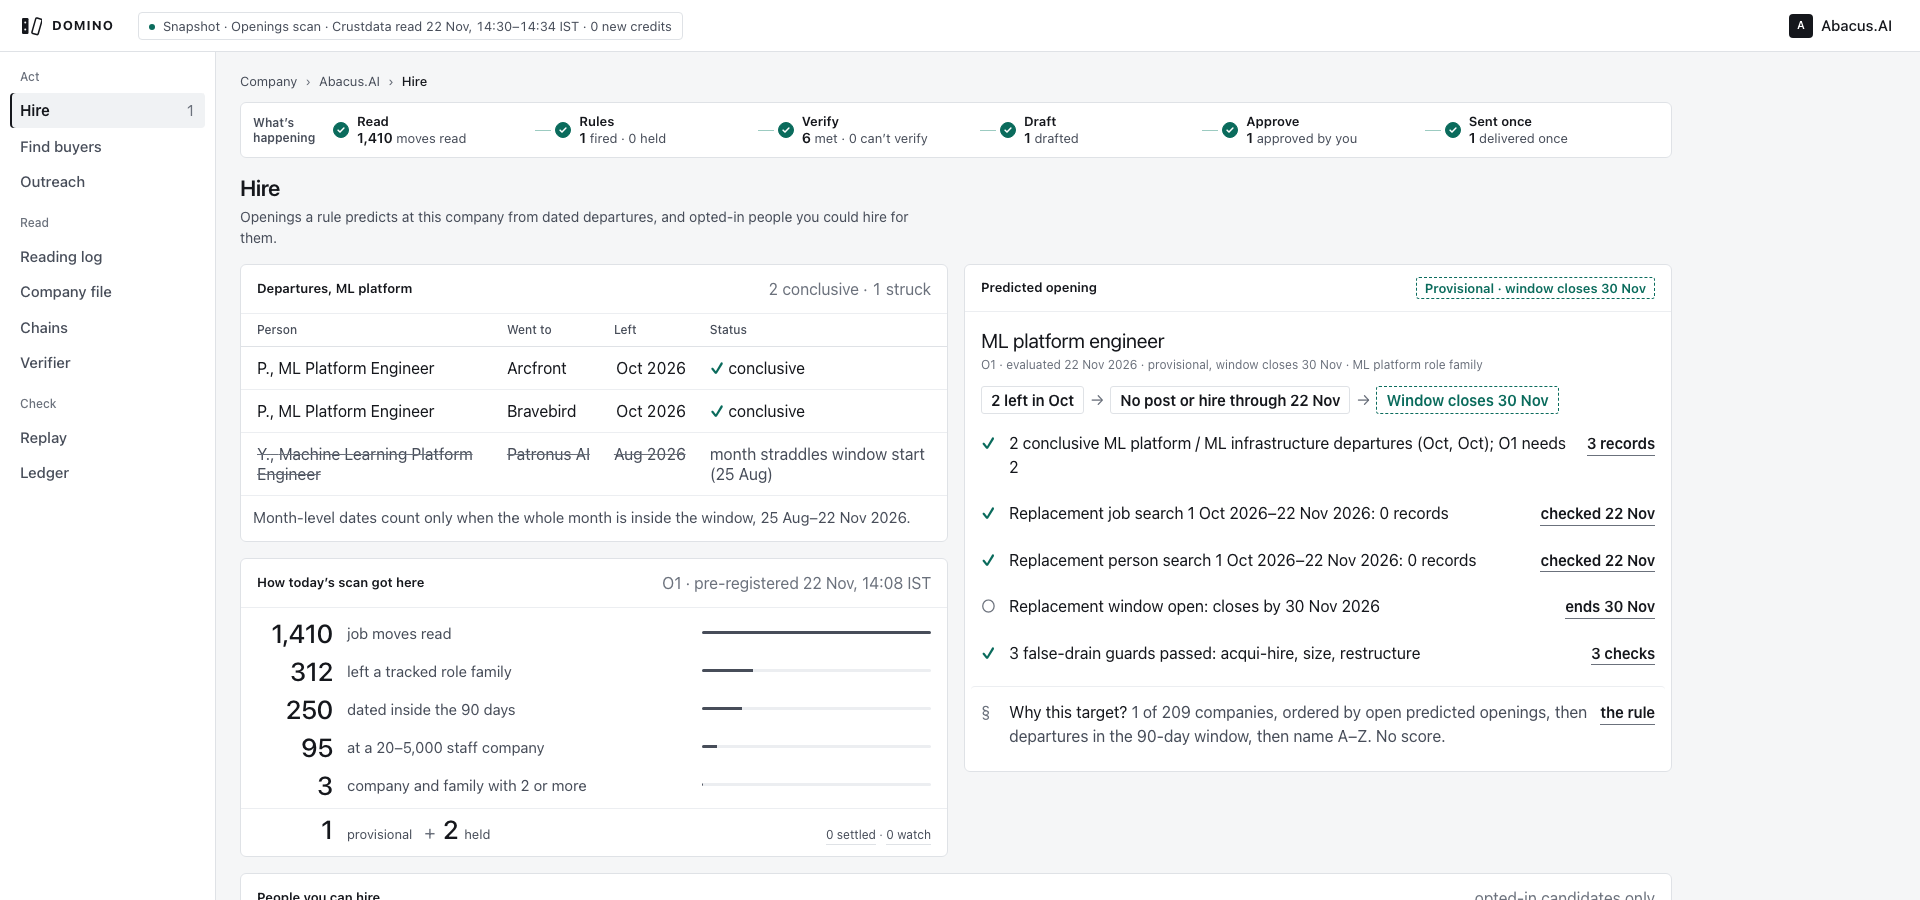
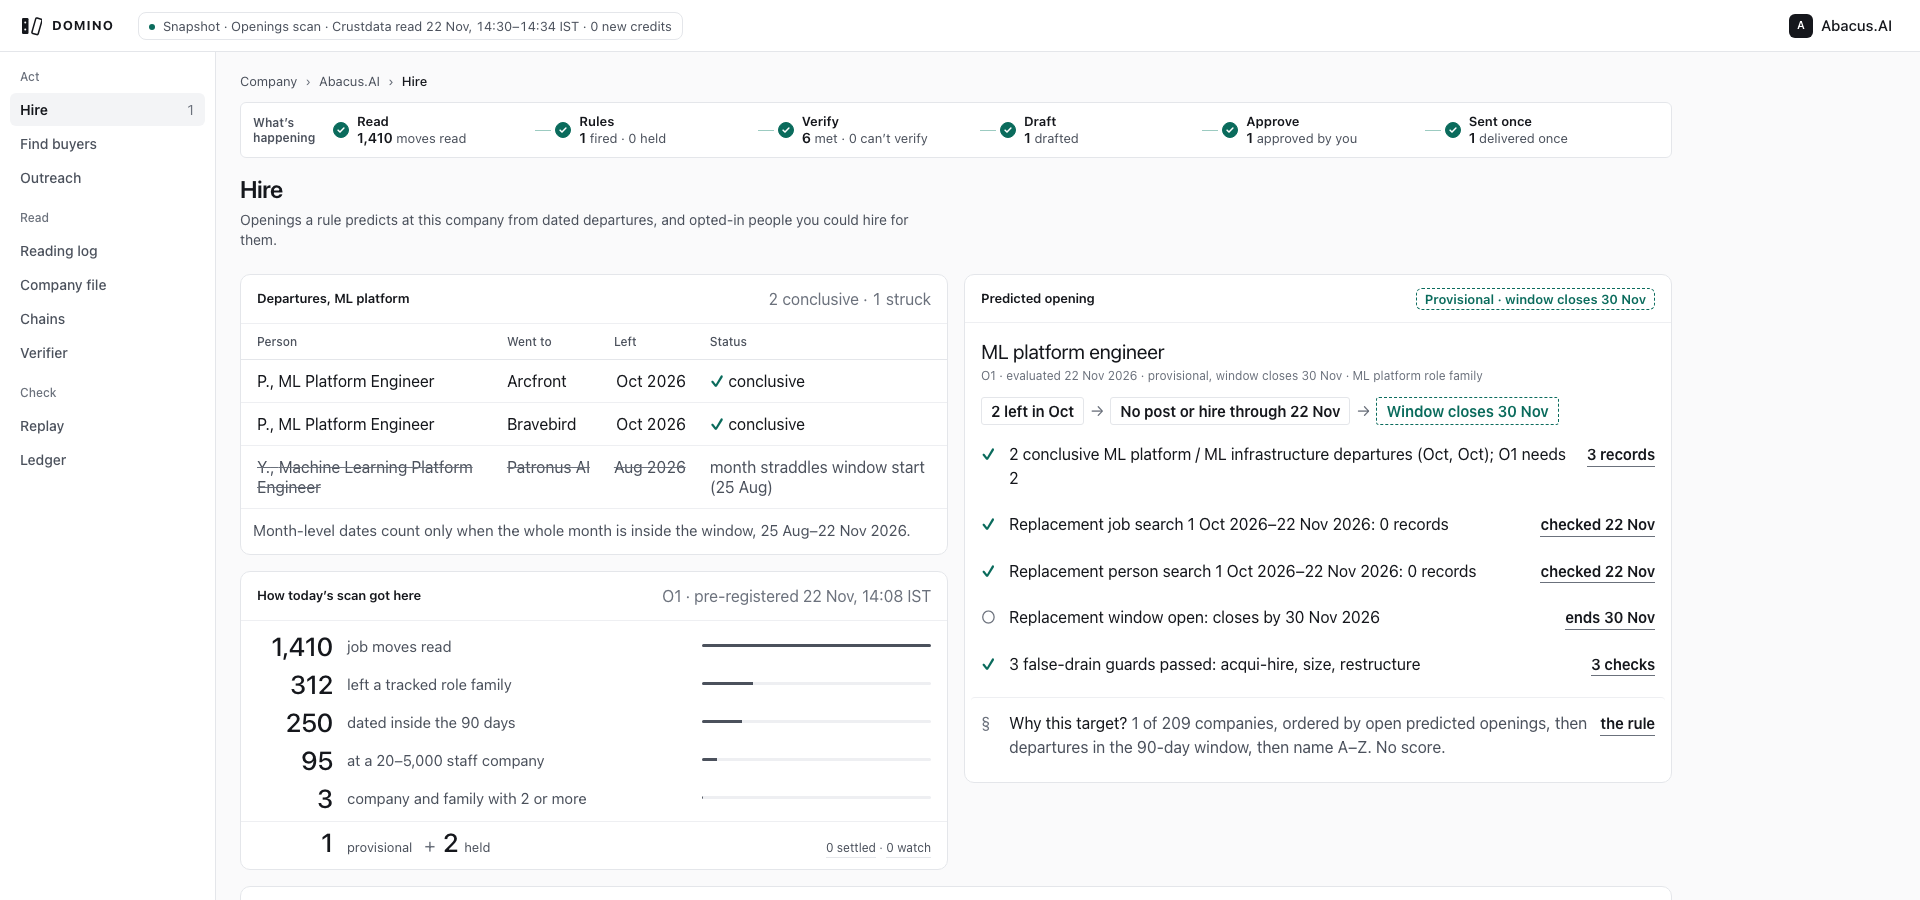
p5-shell: Attio-derived shared tokens (type scale, radii, hairlines, 36/40px grid rows, nav pills) applied to shell primitives

diff --git a/web2/src/styles/app.css b/web2/src/styles/app.css
@@ -233,3 +233,31 @@ table.t .num { text-align: right; }
 .loading-line { margin: 8px 0; font-size: 14px; color: var(--ink-2); }
 /* projector floor: secondary text never below 13px or the tertiary token for deciding states */
 .st.held, .st.plain, .cant { color: var(--ink); }
+
+/* ---------------------------------------------------------------- Attio layer (Garud 17:05): shape, type, grid, nav.
+   Shared tokens only; features inherit through .panel / .btn / table.t / .st / .tag / .side / .crumbs. */
+.panel, .surface, .empty-act, .placeholder, .ghost-rows span { border-radius: var(--r-lg); }
+.panel > header { min-height: 48px; padding: 12px var(--cell-x-edge); }
+.panel > header h2, .h-sec { font-size: var(--fs-ui); font-weight: var(--w-semi); letter-spacing: var(--track-snug); }
+.ph { margin-bottom: var(--s5); }
+.ph h1, .h-page { font-size: var(--fs-page); line-height: var(--lh-page); font-weight: var(--w-semi); letter-spacing: var(--track-tight); }
+.ph p, .lede { color: var(--ink-2); font-size: var(--fs-body); line-height: var(--lh-body); margin-top: 6px; }
+.btn { height: 32px; border-radius: var(--r-ctl); font-weight: var(--w-med); padding: 0 12px; }
+.btn.small, .btn.sm { height: 28px; border-radius: var(--r); }
+.field { border-radius: var(--r-ctl); height: 36px; }
+.st, .tag, .llm, .cant { border-radius: var(--r); font-size: var(--fs-ui); line-height: 20px; padding: 0 8px; }
+.sample-tag { border-radius: var(--r-sm); }
+.receipt, .banner { border-radius: var(--r-ctl); }
+.acct-menu { border-radius: var(--r-ctl); }
+.acct-item, .acct-btn { border-radius: var(--r); }
+.acct-av { border-radius: var(--r); }
+.runchip { border-radius: var(--r-ctl); height: 28px; line-height: 18px; }
+/* data grid: 36px header, 40px rows, hairline dividers */
+table.t th { height: var(--head-h); padding-top: 0; padding-bottom: 0; vertical-align: middle; }
+table.t td { padding: 10px var(--cell-x); }
+table.t th:first-child, table.t td:first-child { padding-left: var(--cell-x-edge); }
+table.t th:last-child, table.t td:last-child { padding-right: var(--cell-x-edge); }
+table.t tbody tr:hover { background: var(--row-hover); }
+/* nav: the active item is a subtle filled pill */
+.bar-tabs a { height: var(--nav-h); display: inline-flex; align-items: center; border-radius: var(--r); }
+.bar-tabs a[aria-current='page'] { background: var(--hover); color: var(--ink); font-weight: var(--w-semi); }

diff --git a/web2/src/styles/tokens.css b/web2/src/styles/tokens.css
@@ -7,9 +7,9 @@
 */
 :root {
   color-scheme: light;
-  --canvas: #F5F6F7; --surface: #FFFFFF; --raised: #FFFFFF; --hover: #F0F2F4; --row-hover: #FAFBFB; --sel: #FBFBFC;
-  --ink: #15171C; --ink-2: #474D59; --ink-3: #6B717C; --on-ink: #FFFFFF; --ink-hover: #2A2E36;
-  --rule: #DFE2E6; --rule-2: #ECEEF1;
+  --canvas: #FAFAFB; --surface: #FFFFFF; --raised: #FFFFFF; --hover: #F3F4F6; --row-hover: #F9FAFB; --sel: #F6F7F9;
+  --ink: #15171C; --ink-2: #4B515C; --ink-3: #6B717C; --on-ink: #FFFFFF; --ink-hover: #2A2E36;
+  --rule: #E4E6EA; --rule-2: #EEEFF2;
   --acc: #0A6B5C; --acc-2: #0E8572; --acc-weak: #E4F1EE; --acc-line: #9CCBC1; --on-acc: #FFFFFF;
   --hatch: rgba(132, 138, 149, .18); --sample-a: #ECEEF1; --sample-b: #F5F6F7;
   --shadow: 0 8px 24px rgba(21, 23, 28, .10);
@@ -46,11 +46,21 @@
   --serif: var(--sans); /* Garud 15:17: no serif anywhere. Kept as an alias so older rules render in the sans. */
   --sans: 'Schibsted Grotesk Variable', 'Schibsted Grotesk', system-ui, sans-serif;
   --mono: 'IBM Plex Mono', ui-monospace, monospace;
-  --fs-cap: 12px; --fs-ui: 13px; --fs-body: 14px; --fs-lead: 15px; --fs-h: 20px; --fs-title: 30px;
+  /* Attio-derived scale (17:05): few sizes, strict steps; display sizes medium/semibold with tight tracking. */
+  --fs-cap: 12px; --fs-ui: 13px; --fs-body: 14px; --fs-lead: 15px; --fs-sec: 16px; --fs-h: 20px; --fs-page: 24px; --fs-title: 30px;
+  --lh-cap: 16px; --lh-ui: 18px; --lh-body: 20px; --lh-h: 28px; --lh-page: 30px;
+  --track-tight: -0.02em; --track-snug: -0.01em;
+  --w-med: 500; --w-semi: 600;
 
-  /* rhythm: 4px base */
+  /* rhythm: 4px base, 8px steps */
   --s1: 4px; --s2: 8px; --s3: 12px; --s4: 16px; --s5: 24px; --s6: 32px; --s7: 48px;
-  --r-sm: 3px; --r: 4px; --r-lg: 6px;
+  /* shape: small control radii, softer cards, 1px hairlines, one popover elevation */
+  --r-sm: 4px; --r: 6px; --r-ctl: 8px; --r-lg: 10px; --r-pill: 999px;
+  --hair: 1px solid var(--rule); --hair-2: 1px solid var(--rule-2);
+  /* data grid */
+  --row-h: 40px; --row-h-compact: 36px; --head-h: 36px; --cell-x: 12px; --cell-x-edge: 16px;
+  /* navigation */
+  --nav-h: 32px; --nav-pill: var(--hover); --nav-pill-on: var(--sel);
 
   /* motion: one scale. Entrances once at 220 ms, menus 160 ms, everything else 200 ms. */
   --ease: cubic-bezier(.2, .7, .2, 1); --t: 200ms;

diff --git a/web2/src/styles/pages.css b/web2/src/styles/pages.css
@@ -67,7 +67,11 @@
 .crumbs li[aria-current='page'] { color: var(--ink); font-weight: 500; }
 .side a .c { font-variant-numeric: tabular-nums; }
 .side .grp { font-weight: 500; }
-.side a[aria-current='page'] { font-weight: 600; box-shadow: inset 2px 0 0 var(--ink); }
+.side a { min-height: var(--nav-h); align-items: center; border-radius: var(--r); font-size: var(--fs-body); }
+.side a[aria-current='page'] { font-weight: var(--w-semi); background: var(--hover); color: var(--ink); }
+.side .grp { font-size: var(--fs-cap); letter-spacing: 0; }
+.cohort-row { min-height: var(--row-h); padding: 8px var(--cell-x-edge); }
+.cohort-head { min-height: var(--head-h); padding-top: 0; padding-bottom: 0; }
 .cohort-row:hover { background: var(--row-hover); }
 .cohort-name b { font-weight: 600; }
 .cohort-name small { color: var(--ink-3); margin-left: 8px; font-size: 12px; }
